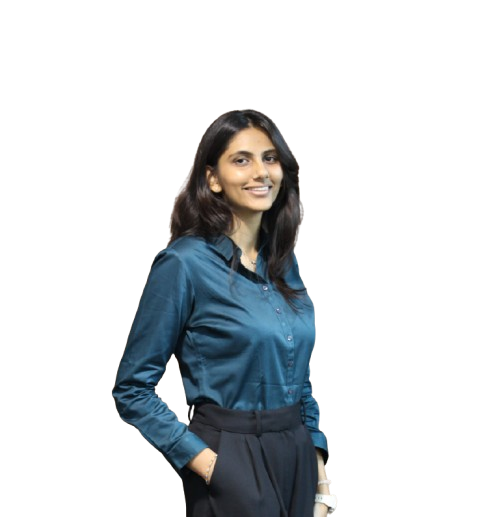
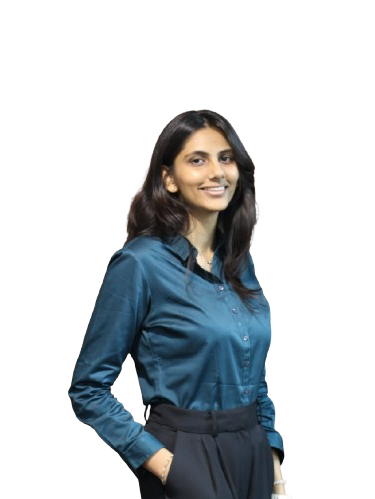
Update 3 - Final images done for Our Team Section

Changed region(s): [[0.176, 0.2104, 0.7627, 1.0]]

diff --git a/index.html b/index.html
@@ -282,127 +282,127 @@
             <p>Directors</p>
         </div>
         <div class="team-member">
-            <img src="core_photos/tech/theodora.jpg" alt="Team Member">
+            <img src="core_photos/tech/theodora_removebg_preview - Copy.png" alt="Team Member">
             <h3>Theodora D'Souza</h3>
             <p>Head of Technicals</p>
         </div>
         <div class="team-member">
-            <img src="core_photos/tech/rushabh.jpg" alt="Team Member">
+            <img src="core_photos/tech/rushabh_removebg_preview - Copy.png" alt="Team Member">
             <h3>Rushabh Shah</h3>
             <p>Head of Technicals</p>
         </div>
         <div class="team-member">
-            <img src="core_photos/tech/namya.jpg" alt="Team Member">
+            <img src="core_photos/tech/namya_removebg_preview - Copy.png" alt="Team Member">
             <h3>Namya Desai</h3>
             <p>Sub Head of Technicals</p>
         </div>
         <div class="team-member">
-            <img src="core_photos/tech/hemil.jpg" alt="Team Member">
+            <img src="core_photos/tech/hemil_removebg_preview - Copy.png" alt="Team Member">
             <h3>Hemil Shah</h3>
             <p>Sub Head of Technicals</p>
         </div>
         <div class="team-member">
-            <img src="core_photos/logi/siddhi.jpg" alt="Team Member">
+            <img src="core_photos/logi/siddhi_removebg_preview - Copy.png" alt="Team Member">
             <h3>Siddhi Gandhi</h3>
             <p>Head of Logistics</p>
         </div>
         <div class="team-member">
-            <img src="core_photos/logi/monish.jpg" alt="Team Member">
+            <img src="core_photos/logi/monish_removebg_preview - Copy.png" alt="Team Member">
             <h3>Mohnish Badiani</h3>
             <p>Head of Logistics</p>
         </div>
         <div class="team-member">
-            <img src="core_photos/logi/soham.jpg" alt="Team Member">
+            <img src="core_photos/logi/soham_removebg_preview - Copy.png" alt="Team Member">
             <h3>Soham Sawant</h3>
             <p>Sub Head of Logistics</p>
         </div>
         <div class="team-member">
-            <img src="core_photos/logi/nain.jpg" alt="Team Member">
+            <img src="core_photos/logi/nain_removebg_preview - Copy.png" alt="Team Member">
             <h3>Nain Sadarangani</h3>
             <p>Sub Head of Logistics</p>
         </div>
         <div class="team-member">
-            <img src="core_photos/photography/saihajvir.jpg" alt="Team Member">
+            <img src="core_photos/photography/saihajvir_removebg_preview - Copy.png" alt="Team Member">
             <h3>Sahajvir Singh</h3>
             <p>Head of Photography</p>
         </div>
         <div class="team-member">
-            <img src="core_photos/photography/vaishnavi.jpg" alt="Team Member">
+            <img src="core_photos/photography/vaishnavi_removebg_preview - Copy.png" alt="Team Member">
             <h3>Vaishnavi Parekh</h3>
             <p>Sub Head of Photography</p>
         </div>
         <div class="team-member">
-            <img src="core_photos/photography/shubh.jpg" alt="Team Member">
+            <img src="core_photos/photography/shubh_removebg_preview - Copy.png" alt="Team Member">
             <h3>Shubh Agarwal</h3>
             <p>Sub Head of Photography</p>
         </div>
         <div class="team-member">
-            <img src="core_photos/pr/kashish.jpg" alt="Team Member">
+            <img src="core_photos/pr/kashish_removebg_preview - Copy.png" alt="Team Member">
             <h3>Kashish Udani</h3>
             <p>Head of Public Relations</p>
         </div>
         <div class="team-member">
-            <img src="core_photos/pr/tanishka.jpg" alt="Team Member">
+            <img src="core_photos/pr/tanishka_removebg_preview - Copy.png" alt="Team Member">
             <h3>Tanishka Patne</h3>
             <p>Head of Public Relations</p>
         </div>
         <div class="team-member">
-            <img src="core_photos/pr/shriyyan.jpg" alt="Team Member">
+            <img src="core_photos/pr/shriyyan_removebg_preview - Copy.png" alt="Team Member">
             <h3>Shriyyan</h3>
             <p>Sub Head of Public Relations</p>
         </div>
         <div class="team-member">
-            <img src="core_photos/pr/arnav.jpg" alt="Team Member">
+            <img src="core_photos/pr/arnav_removebg_preview - Copy.png" alt="Team Member">
             <h3>Arnav Suke</h3>
             <p>Sub Head of Public Relations</p>
         </div>
         <div class="team-member">
-            <img src="core_photos/marketing/rishit.jpg" alt="Team Member">
+            <img src="core_photos/marketing/rishit_removebg_preview - Copy.png" alt="Team Member">
             <h3>Rishit Sinha</h3>
             <p>Head of Marketing</p>
         </div>
         <div class="team-member">
-            <img src="core_photos/marketing/mishita.jpg" alt="Team Member">
+            <img src="core_photos/marketing/mishita_removebg_preview - Copy.png" alt="Team Member">
             <h3>Mishitha Sharma</h3>
             <p>Head of Marketing</p>
         </div>
         <div class="team-member">
-            <img src="core_photos/marketing/kush.jpg" alt="Team Member">
+            <img src="core_photos/marketing/kush_removebg_preview - Copy.png" alt="Team Member">
             <h3>Kush Gala</h3>
             <p>Sub Head of Marketing</p>
         </div>
         <div class="team-member">
-            <img src="core_photos/ihc/ditee.jpg" alt="Team Member">
+            <img src="core_photos/ihc/ditee_removebg_preview - Copy.png" alt="Team Member">
             <h3>Ditee Khatry</h3>
             <p>Head of In House Creatives</p>
         </div>
         <div class="team-member">
-            <img src="core_photos/ihc/krimy.jpg" alt="Team Member">
+            <img src="core_photos/ihc/krimy_removebg_preview - Copy.png" alt="Team Member">
             <h3>Krimy Shah</h3>
             <p>Sub Head of In House Creatives</p>
         </div>
         <div class="team-member">
-            <img src="core_photos/smdc/maalav.jpg" alt="Team Member">
+            <img src="core_photos/smdc/maalav_removebg_preview - Copy.png" alt="Team Member">
             <h3>Malaav Gotecha</h3>
             <p>Head of Social Media and Digital Creatives</p>
         </div>
         <div class="team-member">
-            <img src="core_photos/smdc/purvi.jpg" alt="Team Member">
+            <img src="core_photos/smdc/purvi_removebg_preview - Copy.png" alt="Team Member">
             <h3>Purvi Tak</h3>
             <p>Head of Social Media and Digital Creatives</p>
         </div>
         <div class="team-member">
-            <img src="core_photos/smdc/Ishita.jpg" alt="Team Member">
+            <img src="core_photos/smdc/ishita_removebg_preview - Copy.png" alt="Team Member">
             <h3>Ishita</h3>
             <p>Sub Head of Social Media and Digital Creatives</p>
         </div>
         <div class="team-member">
-            <img src="core_photos/cw/yash.jpg" alt="Team Member">
+            <img src="core_photos/cw/yash_removebg_preview - Copy.png" alt="Team Member">
             <h3>Yash Narayan</h3>
             <p>Head of Content Writing</p>
         </div>
         <div class="team-member">
-            <img src="core_photos/cw/ananya.jpg" alt="Team Member">
+            <img src="core_photos/cw/ananya_removebg_preview - Copy.png" alt="Team Member">
             <h3>Ananya Rao</h3>
             <p>Head of Content Writing</p>
         </div>
